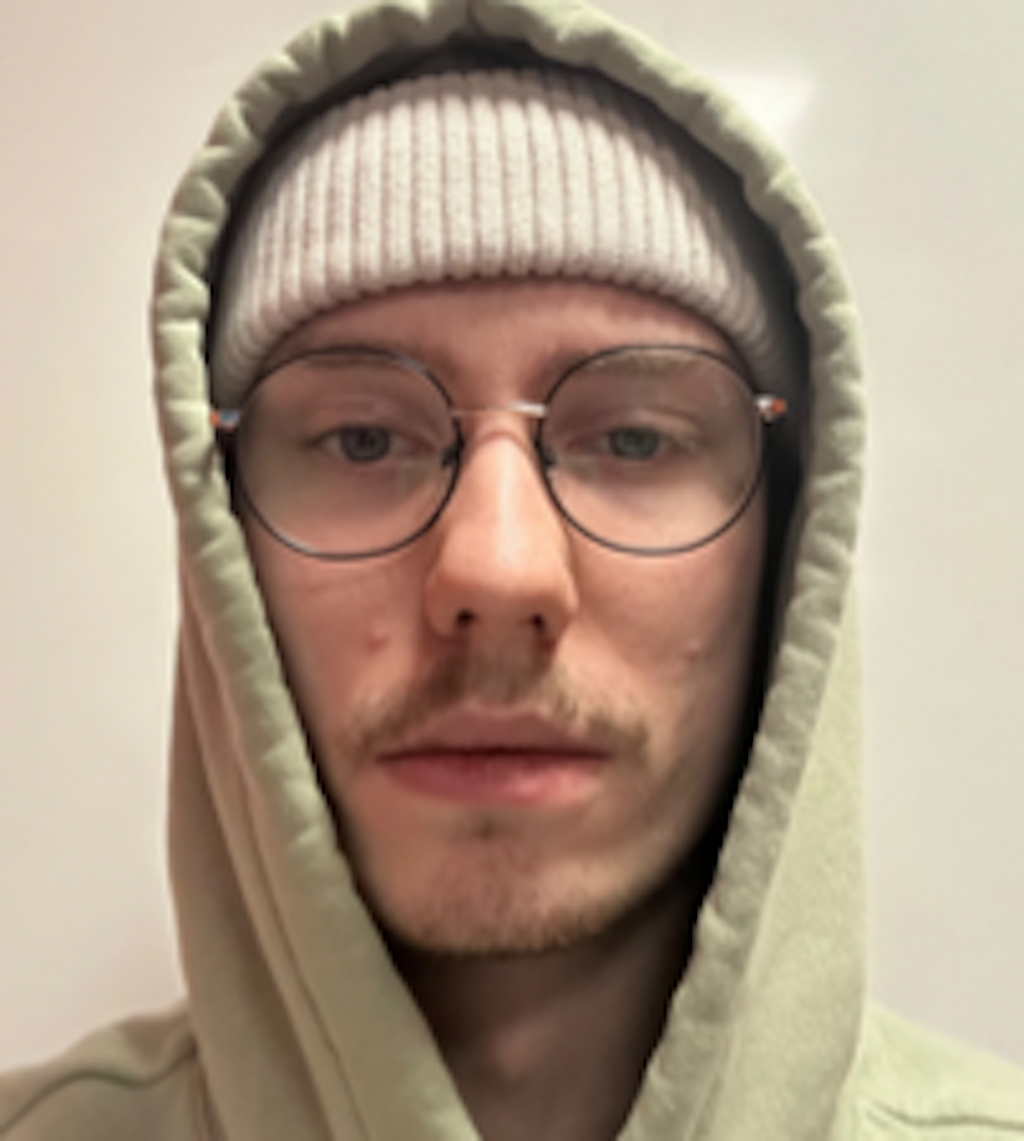
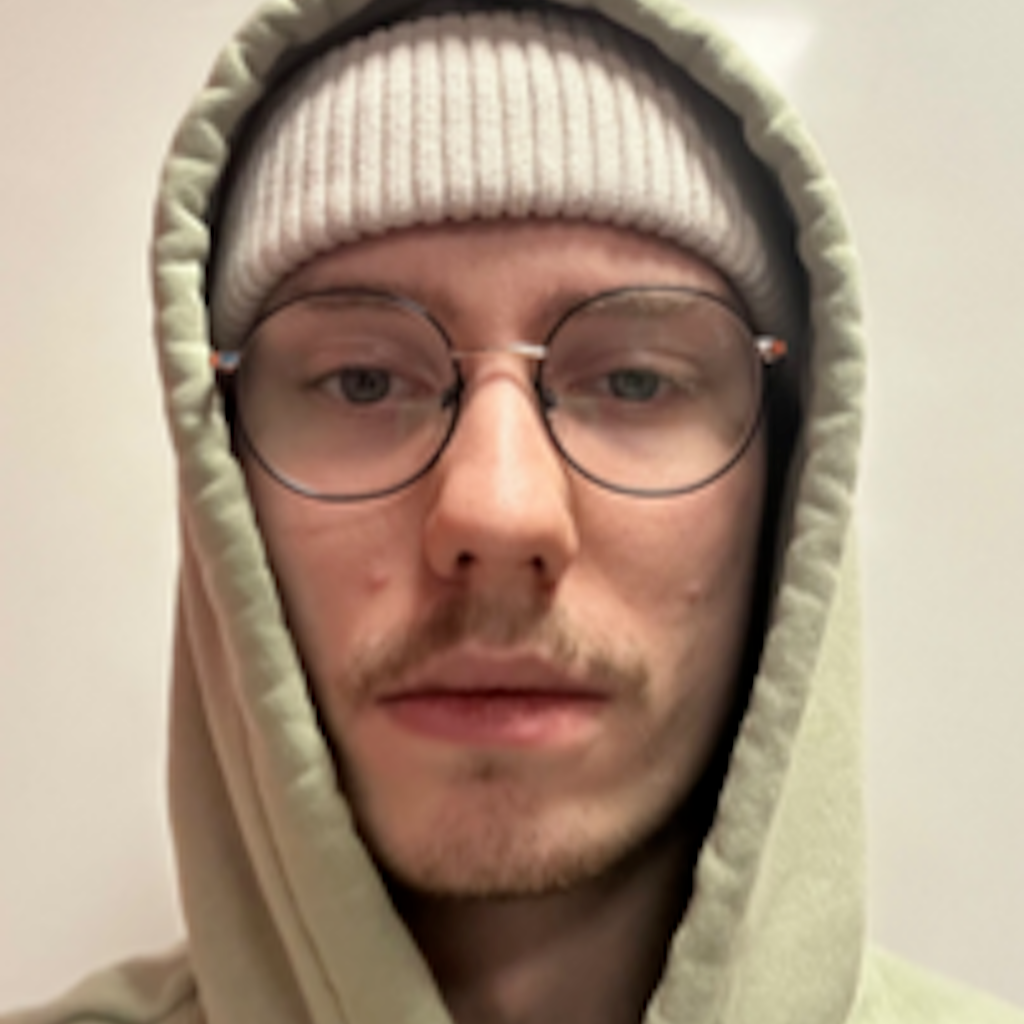
picture sizes and png

diff --git a/contact.html b/contact.html
@@ -26,7 +26,7 @@
     <!-- Contact section-->
     <section id="contact1">
         <div class="contact-item">
-            <img class="contact-img" src="bilder/aasmund.jpg" alt="bilde_asmund" id="bilde_asmund">
+            <img class="contact-img" src="bilder/aasmund.png" alt="bilde_asmund" id="bilde_asmund">
             <h2>Åsmund</h2>
             <p>Prosjektleder</p>
             <p><a href="aasmund.html" target="_blank">Trykk her for å åpne Åsmund sin side</a></p>
@@ -40,7 +40,7 @@
             <p><a href="mailto:lloyd@hvltopia.no">Send Lloyd en epost her</a></p>
         </div>
         <div class="contact-item">
-            <img class="contact-img" src="bilder/andreas.jpg" alt="bilde_andreas" id="bilde_andreas">
+            <img class="contact-img" src="bilder/andreas.png" alt="bilde_andreas" id="bilde_andreas">
             <h2>Andreas</h2>
             <p>Prosjektmedlem</p>
             <p><a href="andreas.html" target="_blank">Trykk her for å åpne Andreas sin side</a></p>
@@ -50,21 +50,21 @@
 
     <section id="contact2">
     <div class="contact-item">
-        <img class="contact-img" src="bilder/henrik.jpg" alt="bilde_henrik" id="bilde_henrik">
+        <img class="contact-img" src="bilder/henrik.png" alt="bilde_henrik" id="bilde_henrik">
         <h2>Henrik</h2>
         <p>Prosjektmedlem</p>
         <p><a href="henrik.html" target="_blank">Trykk her for å åpne Henrik sin side</a></p>
         <p><a href="mailto:henrik@hvltopia.no">Send Henrik en epost her</a></p>
     </div>
     <div class="contact-item">
-        <img class="contact-img" src="bilder/melvin.jpg" alt="bilde_melvin" id="bilde_melvin">
+        <img class="contact-img" src="bilder/melvin.png" alt="bilde_melvin" id="bilde_melvin">
         <h2>Melvin</h2>
         <p>Prosjektmedlem</p>
         <p><a href="melvin.html" target="_blank">Trykk her for å åpne Melvin sin side</a></p>
         <p><a href="mailto:melvin@hvltopia.no">Send Melvin en epost her</a></p>
     </div>
     <div class="contact-item">
-        <img class="contact-img" src="bilder/oddne.jpg" alt="bilde_oddne" id="bilde_oddne">
+        <img class="contact-img" src="bilder/oddne.png" alt="bilde_oddne" id="bilde_oddne">
         <h2>Oddne</h2>
         <p>Prosjektmedlem</p>
         <p><a href="oddne.html" target="_blank">Trykk her for å åpne Oddne sin side</a></p>
